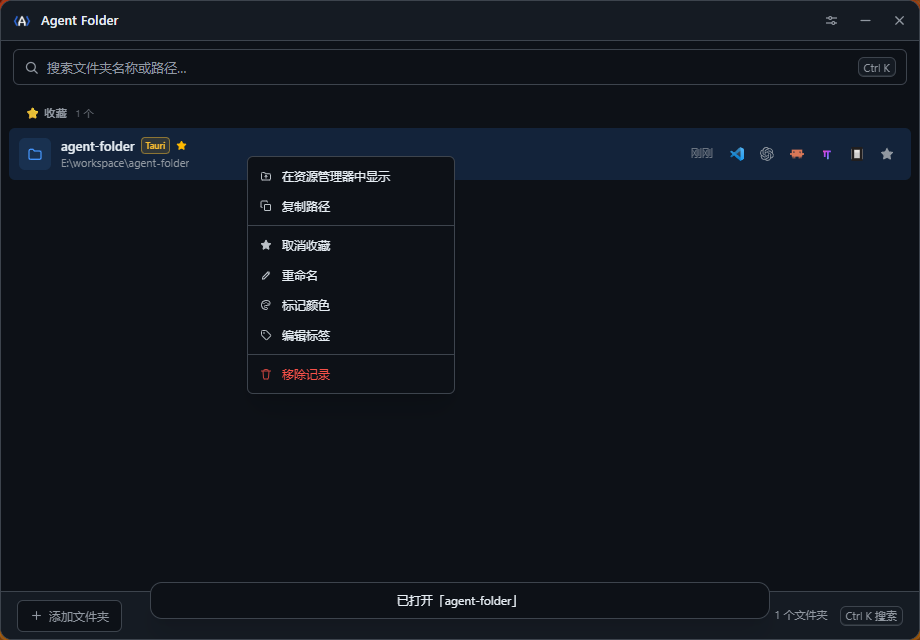
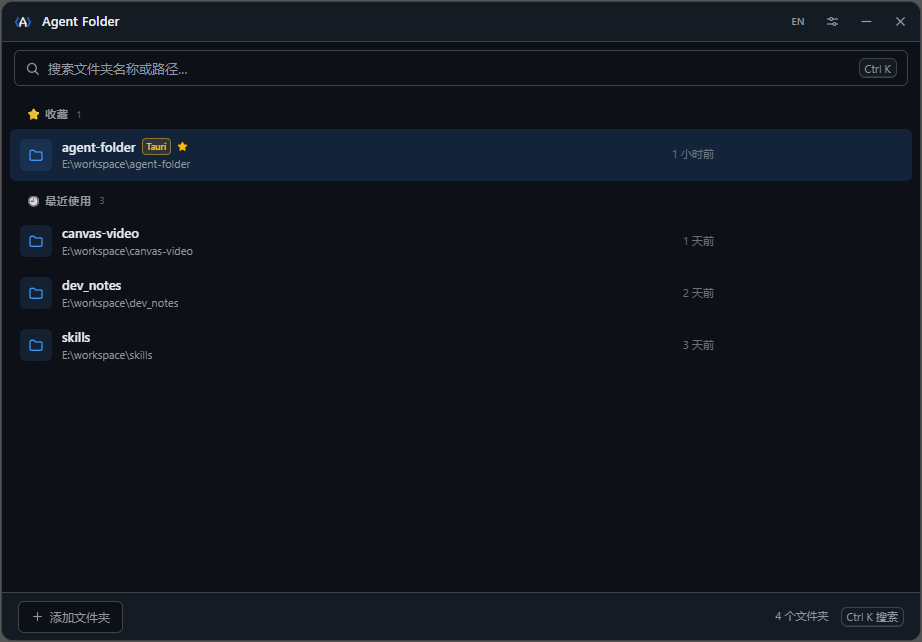
docs: refresh screenshots and README for the settings page
Add a settings screenshot to both READMEs and drop the outdated main
window capture, which still showed the old "Show in File Explorer"
menu label. Also note that settings opens as an in-window page with
hover explanations, point scan roots at their new group, and clarify
what Esc does.

diff --git a/README.md b/README.md
@@ -14,6 +14,10 @@ Agent Folder is a lightweight Windows desktop app for organizing frequently used
 
 ![Quick launch](docs/quick-launch.png)
 
+**Settings** — a full page inside the main window instead of a separate window: pick a group on the left and hover any label for its explanation.
+
+![Settings](docs/settings.png)
+
 ## Features
 
 - Pin favorite folders and sort by recent usage
@@ -39,7 +43,7 @@ Agent Folder is a lightweight Windows desktop app for organizing frequently used
 
 ## Current Version
 
-The source in this repository is version **v1.3.0**; the latest published release is **v1.2.3**. Download builds from [GitHub Releases](https://github.com/jin-liquor/agent-folder/releases).
+The latest release is **v1.3.0**. Download it from [GitHub Releases](https://github.com/jin-liquor/agent-folder/releases).
 
 ## Installation
 
@@ -54,7 +58,7 @@ Requirements: Windows 10 or later and the Microsoft Edge WebView2 Runtime (usual
 3. Select a project and press `Enter` to open it with the current default editor.
 4. Favorite frequently used folders and search them later from the main window or quick-launch palette.
 
-If a project is outside the default scan roots, add its parent directory in **Settings → Scan Roots**. Adding records, favorites, or settings never moves, modifies, or deletes project files on disk.
+If a project is outside the default scan roots, add its parent directory in **Settings → Disk index → Scan roots**. Adding records, favorites, or settings never moves, modifies, or deletes project files on disk.
 
 ## Shortcuts
 
@@ -66,12 +70,14 @@ If a project is outside the default scan roots, add its parent directory in **Se
 | `Ctrl+D` | Toggle favorite |
 | `Delete` | Remove a record without deleting its folder |
 | `Ctrl+,` | Open settings |
-| `Esc` | Close a panel or clear search |
+| `Esc` | Back to the list (in settings) or clear search |
 | `Ctrl+Alt+V` | Show or hide the main window; configurable in settings |
 | `Ctrl+Space` | Show or hide the quick-launch palette; changeable in settings, clear it to disable |
 | `Shift+F10` / right-click | Open the action menu for the focused row |
 
 Inside the palette only `↑` / `↓` and `Enter` are bound; switch the launch target with the icon buttons on the right of each row.
+
+Settings opens as a page inside the main window: the left-hand list jumps between groups and highlights the group you are scrolled to, and hovering any label shows its explanation.
 
 The title-bar minimize button minimizes the app to the taskbar. The close button follows the **Close to tray on close** setting. To exit completely, right-click the tray icon and choose **Quit**.
 
@@ -79,7 +85,7 @@ The title-bar minimize button minimizes the app to the taskbar. The close button
 
 Folder records and settings are stored locally at `%APPDATA%\agent-folder\data.json`. The app does not upload this data or collect usage analytics. JSON import and export are user-initiated. Automatic updates are not currently included; download and install new versions manually from GitHub Releases.
 
-If `data.json` cannot be parsed, the app backs up the original file next to it before falling back, and settings shows the backup path together with **Reveal backup**, **Export backup**, **Restore backup**, and **Reload** actions. If creating the backup fails, the app enters read-only protection instead of overwriting your data.
+If `data.json` cannot be parsed, the app backs up the original file next to it before falling back, and settings shows the backup path together with **Locate backup**, **Export backup**, **Restore backup**, and **Reload** actions. If creating the backup fails, the app enters read-only protection instead of overwriting your data.
 
 ## Build from Source
 
